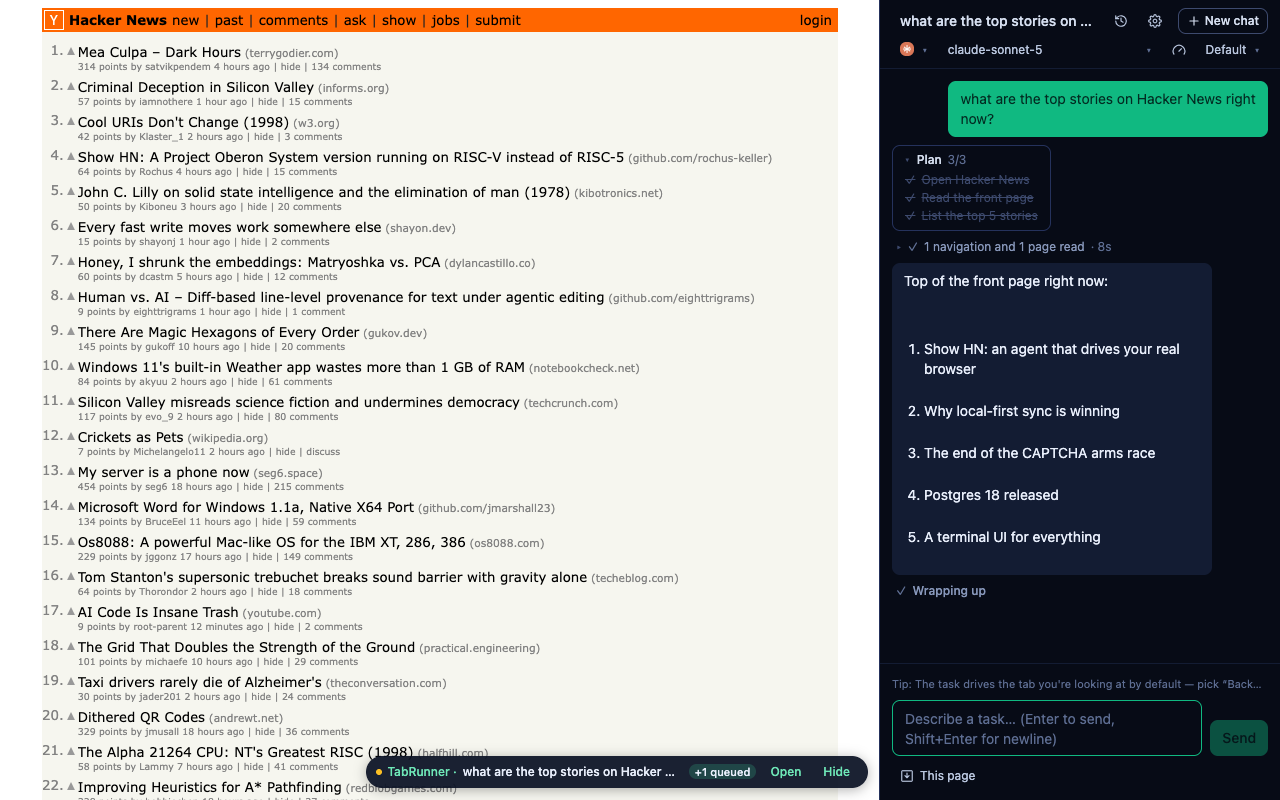
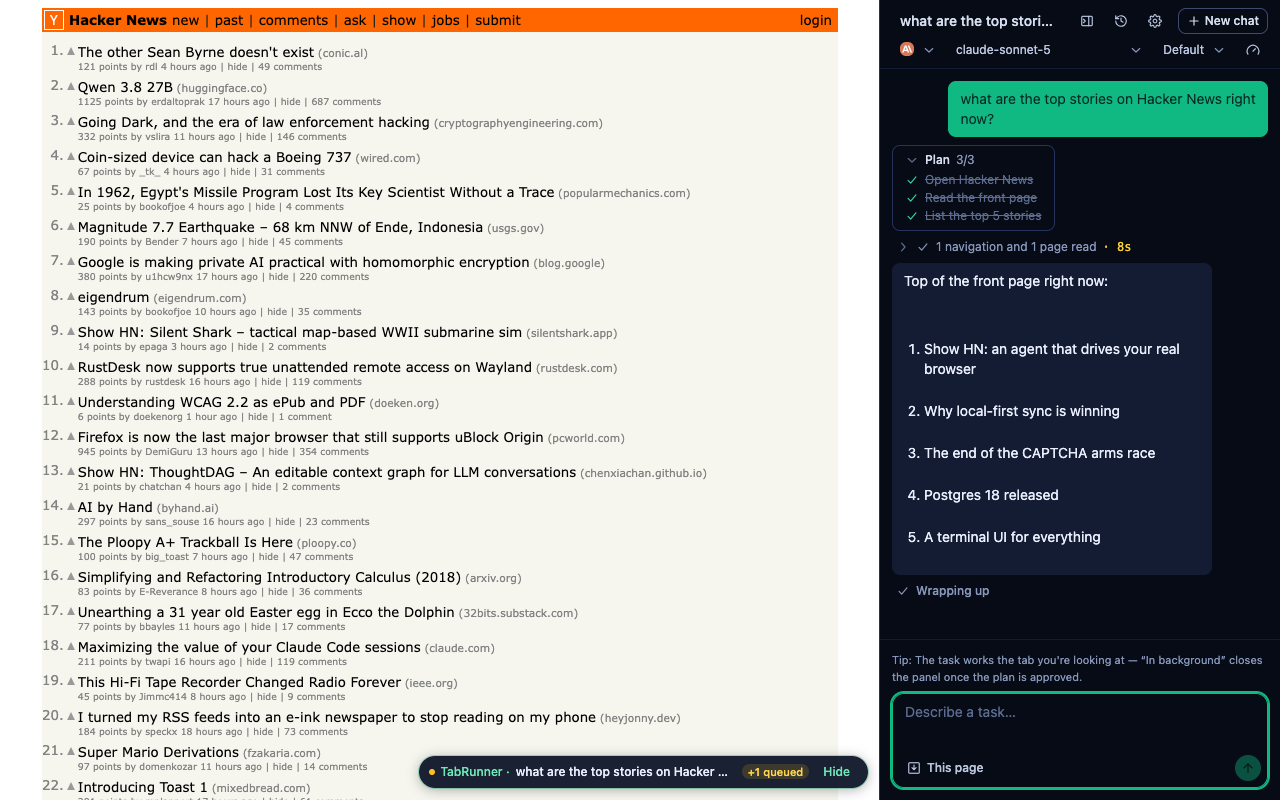
Re-shoot the store screenshots against the pill the code actually paints
The shoot script hand-mirrors the injected marks' markup (page.evaluate
can't reach the bundle's paint functions), and the mirror kept an Open
button the pill dropped when its whole surface became the open control —
so every store and site screenshot showed a control that does not exist.
Mirror corrected, both marks now point at it, and the four shots are
retaken: gold queued chip, resting emerald ring, no phantom button.

Also drops the version pin from TERMS.md — it said 0.1.0 while the
product shipped 0.2.7, and a hardcoded version in legal text goes stale
every release; the date already versions the document. Store listing's
pt-BR/es taglines now match the site's wording.

diff --git a/scripts/shoot-store.ts b/scripts/shoot-store.ts
@@ -254,10 +254,13 @@ async function seed(active: string | null) {
 }
 
 // ── on-page marks (markup mirrors indicator.ts / status-widget.ts) ───────────
+// ponytail: a hand mirror, not the real paint functions — page.evaluate would
+// need the built bundle's internals. When the marks' markup changes, change it
+// here too (the "Open" button drifted invisible for a whole release cycle).
 const BADGE_CSS = `
   display:flex;align-items:center;gap:6px;padding:6px 10px;border-radius:9999px;
   background:#0b1224ee;color:#e8eefb;font:500 12px/1.2 ui-sans-serif,system-ui,sans-serif;
-  box-shadow:0 2px 12px #0000004d;`;
+  box-shadow:0 2px 12px #0000004d,0 0 0 1px #34d39966;`;
 const AMBER_DOT = `width:6px;height:6px;border-radius:9999px;background:#fbbf24;flex:none;`;
 
 async function injectBadge(page: Page) {
@@ -278,14 +281,14 @@ async function injectWidget(page: Page, task: string, queued: string) {
     (css, dot, t, q) => {
       const el = document.createElement("div");
       el.style.cssText = `position:fixed;bottom:12px;right:12px;z-index:2147483647;${css}`;
+      // The pill's content IS the open control — there is no Open button.
       el.innerHTML =
         `<span style="${dot}"></span>` +
         `<span style="color:#6ee7b7">TabRunner ·</span>` +
         `<span style="max-width:220px;overflow:hidden;text-overflow:ellipsis;white-space:nowrap">${t}</span>` +
         (q
-          ? `<span style="padding:1px 6px;border-radius:9999px;background:#34d39933;font-size:11px">${q}</span>`
+          ? `<span style="padding:1px 6px;border-radius:9999px;background:#fbbf2426;color:#fcd34d;font-size:11px">${q}</span>`
           : "") +
-        `<span style="color:#6ee7b7;padding:3px 8px">Open</span>` +
         `<span style="color:#6ee7b7;padding:3px 8px">Hide</span>`;
       document.body.appendChild(el);
     },

diff --git a/src/modules/browser/indicator.ts b/src/modules/browser/indicator.ts
@@ -87,6 +87,9 @@ const pulseTimers = new Map<TabId, ReturnType<typeof setInterval>>();
  * manages its favicon dynamically (unread counters) can still out-vote it mid-run —
  * we don't fight the page, the badge keeps carrying the signal.
  *
+ * scripts/shoot-store.ts hand-mirrors this markup for store screenshots —
+ * change one, change both.
+ *
  * `waiting` swaps the pulsing dot for the still "?" the favicon and the pill
  * speak: the run is alive but blocked on the user, and motion would be a lie.
  */

diff --git a/src/modules/browser/status-widget.ts b/src/modules/browser/status-widget.ts
@@ -59,6 +59,9 @@ let lastExclude: number | undefined;
  * side panel simply opens. "Hide" is purely local: it collapses the pill to the
  * status dot, and the dot expands back. The collapsed flag lives on the host's
  * dataset so a repaint (fresh board content re-injects this function) keeps it.
+ *
+ * scripts/shoot-store.ts hand-mirrors this markup for store screenshots —
+ * change one, change both.
  */
 export function paintWidget(
   hostId: string,

diff --git a/docs/store-listing.md b/docs/store-listing.md
@@ -133,7 +133,7 @@ English · Português (Brasil) · Español. Light and dark theme, or follow your
 <summary><strong>Português (Brasil)</strong></summary>
 
 ```markdown
-## Você dá o objetivo. Ele cuida das abas.
+## Você dá o objetivo. Ele pilota as abas.
 
 O TabRunner é um agente que vive no seu navegador e trabalha dentro dele — não em um sandbox. Ele
 usa a aba que você já está vendo, aproveita suas sessões logadas e lê, clica e digita nos sites que
@@ -191,7 +191,7 @@ English · Português (Brasil) · Español. Tema claro e escuro, ou seguindo o s
 <summary><strong>Español</strong></summary>
 
 ```markdown
-## Tú das el objetivo. Él maneja las pestañas.
+## Tú pones la meta. Él pilota tus pestañas.
 
 TabRunner es un agente que vive en tu navegador y trabaja dentro de él — no en un sandbox. Usa la
 pestaña que ya tienes delante, aprovecha tus sesiones iniciadas y lee, hace clic y escribe en los
@@ -257,7 +257,7 @@ Four **1280×800 PNGs**, uploaded in this order — the first is the card image.
 | 1   | [![Side panel beside a Wikipedia article, task typed but not sent](screenshots/01-side-panel.png)](screenshots/01-side-panel.png) | **Card image.** Wikipedia's "Web browser" article with the side panel beside it, pre-task: the task typed but not yet sent. The panel is the product, not a browser takeover. |
 | 2   | [![A finished run in the panel: plan card, tool trace and summary](screenshots/02-chat.png)](screenshots/02-chat.png)             | A finished run: user bubble, plan card, tool trace, the agent's summary — with the "controlling this tab" badge on the page.                                                  |
 | 3   | [![Options page Providers tab with subscription and API-key rows](screenshots/03-providers.png)](screenshots/03-providers.png)    | The options page's Providers tab: subscription rows (Anthropic, OpenAI) and an API-key row (DeepSeek), active provider highlighted.                                           |
-| 4   | [![Hacker News with a second conversation and the floating status widget](screenshots/04-chat-2.png)](screenshots/04-chat-2.png)  | Hacker News with a second conversation and the floating status widget bottom-right (task · +1 queued · Open · Hide).                                                          |
+| 4   | [![Hacker News with a second conversation and the floating status widget](screenshots/04-chat-2.png)](screenshots/04-chat-2.png)  | Hacker News with a second conversation and the floating status pill bottom-right (task · +1 queued · Hide — the pill itself is the way back to the run).                                                          |
 
 Regenerate with `bun run build && bun run shots` — it rewrites all four in place and refreshes the
 site's webp derivatives when `../site` is checked out. Rerun after any UI rebrand and eyeball them

diff --git a/TERMS.md b/TERMS.md
@@ -1,7 +1,7 @@
 # TabRunner Terms of Use
 
 _Last updated: 2026-08-09 · Applies to TabRunner for Chromium browsers (Chrome, Brave, Edge, Arc,
-Opera, Vivaldi), version 0.1.0._
+Opera, Vivaldi)._
 
 **The short version:** TabRunner is open-source software you run in your own browser, with your
 own AI provider. There is no TabRunner service to sign up for or depend on. You are responsible
